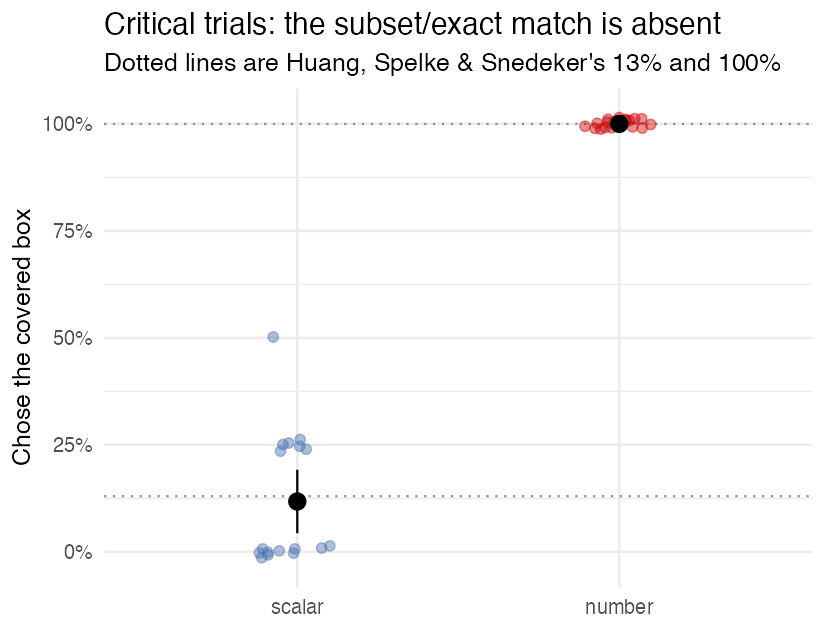
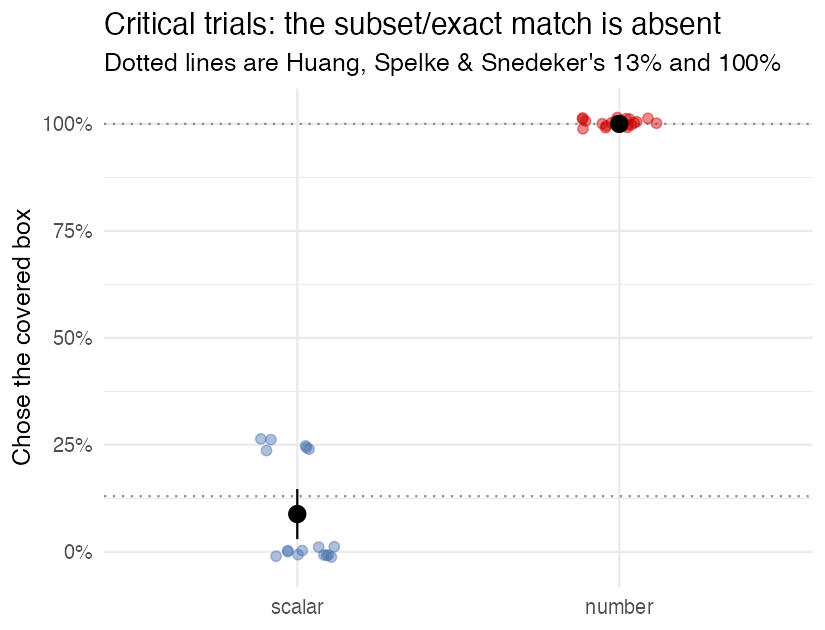
Ask about language background, optionally, at the end
Huang et al. recruited "English-speaking undergraduates", so without this
the report cannot state its own participant characteristics and comparison
with the published rate is an assumption rather than a check. It may also
not be a nuisance variable: there is a literature on second-language
speakers computing scalar implicatures differently, so in a class where a
quarter of the sample is non-native this could be the most interesting
thing in the data.

Asked last, so it cannot colour any response. Optional, with "Prefer not to
say" as a real option: this is classroom data from identifiable people, and
in a group of thirty that the instructor knows, a rare answer plus a
response pattern can identify someone. The analysis reports in aggregate
and prints cell sizes so nobody reads a rate off n = 2.

The wording avoids "native speaker", which is a contested construct and
worth fifteen minutes of the ethics session on its own. LANGUAGE_Q in
design.py is where to change it.

The question is a plain text multiple choice, SAVR with no LabelPosition,
matching Emotion_words.qsf -- the other QSF here known to import.

Claude-Session: https://claude.ai/code/session_01W6W1Yt4uZhCBdA8GGktaX5

diff --git a/build-qsf.py b/build-qsf.py
@@ -78,6 +78,26 @@ def mc(tag, prompt, boxes, preamble=""):
     qsf["SurveyElements"].append(el)
     return q
 
+def text_mc(tag, prompt, options):
+    """A plain text multiple choice. Same payload as the graphic questions but
+    vertical and without LabelPosition, which matches the other QSF here known
+    to import (Emotion_words.qsf, SAVR with text choices)."""
+    qid[0]+=1; q=f"QID{qid[0]}"
+    el = copy.deepcopy(mc_tpl)
+    el["PrimaryAttribute"]=q; el["SecondaryAttribute"]=prompt[:95]
+    p = el["Payload"]
+    p["QuestionText"] = f'<span style="font-size:18px;">{prompt}</span>'
+    p["DataExportTag"]=tag; p["QuestionID"]=q
+    p["QuestionDescription"]=prompt[:95]
+    p["Selector"]="SAVR"
+    p["Configuration"]={"QuestionDescriptionOption":"UseText"}
+    p["Choices"]={str(i+1): {"Display": o} for i,o in enumerate(options)}
+    p["ChoiceOrder"]=[str(i+1) for i in range(len(options))]
+    p["Validation"]["Settings"]["ForceResponse"]="OFF"
+    p["NextChoiceId"]=len(options)+1
+    qsf["SurveyElements"].append(el)
+    return q
+
 def block(seed, desc, qids, typ="Standard"):
     be=[]
     for i,q in enumerate(qids):
@@ -117,7 +137,15 @@ else:
       {"Type":"BlockRandomizer","FlowID":"FL_3","SubSet":1,"EvenPresentation":True,
        "Flow":[{"ID":term_ids[0],"Type":"Block","FlowID":"FL_4"},
                {"ID":term_ids[1],"Type":"Block","FlowID":"FL_5"}]}]
-    count=6
+    count=8
+
+if not TEST:
+    lang_q = text_mc("first_language", design.LANGUAGE_Q[0], design.LANGUAGE_Q[1])
+    lang_b = block("lang", "Language background", [lang_q])
+    blocks.append(lang_b)
+    flow_inner.append({"ID": lang_b["ID"], "Type": "Block", "FlowID": "FL_7"})
+    for i, o in enumerate(design.LANGUAGE_Q[1], start=1):
+        rows.append(("first_language", str(i), o))
 
 blocks.append({"Type":"Trash","Description":"Trash / Unused Questions",
                "ID":bid("trash")})

diff --git a/design.py b/design.py
@@ -122,6 +122,28 @@ SEQUENCE = ["anchor", "probeEarly",
             "critical", "shape", "critical",
             "matchVsMore", "matchVsLess", "otherQuant", "otherQuant", "probe"]
 
+# ---- language background ---------------------------------------------------
+# Asked LAST, so it cannot colour any response, and OPTIONAL.
+#
+# Huang et al. recruited "English-speaking undergraduates", so without this the
+# report cannot state its own participant characteristics and comparability with
+# the published rate is an assumption rather than a check. It may also not be a
+# nuisance variable: there is a literature on second-language speakers computing
+# scalar implicatures differently, so in a class where a quarter of the sample is
+# non-native this could be the most interesting thing in the data.
+#
+# Optional and coarse on purpose. This is classroom data from identifiable
+# people, and in a group of thirty that the instructor knows, a rare answer plus
+# a response pattern can identify someone. "Prefer not to say" is a real option,
+# not politeness. Reporting should be in aggregate.
+#
+# The wording avoids "native speaker", which is a contested construct and worth
+# fifteen minutes of the ethics session on its own -- what exactly would we be
+# measuring, and would a better question be about age of acquisition, or about
+# which languages were spoken at home?
+LANGUAGE_Q = ("Is English your first language? <em>(optional)</em>",
+              ["Yes", "No", "Prefer not to say"])
+
 # ---- shape fillers ---------------------------------------------------------
 SHAPE_PANELS = {"fill_a1":["tri","hex"],  "fill_a2":["sq","star"],
                 "fill_b1":["star","sq"],  "fill_b2":["tri","star"],

diff --git a/README.md b/README.md
@@ -93,8 +93,8 @@ entirely — otherwise it is 22 questions × 3 choices of manual insertion.
   infer the design by comparing trial types; at class scale that would mean six
   cells of five. Critical-first preserves naïvety where it matters, at the cost
   of a fixed order. Say so in the report.
-- **Eighteen screens per participant**: four familiarization, then fourteen test
-  trials. This is Huang et al.'s design plus additions, never a subset of it.
+- **Nineteen screens per participant**: four familiarization, fourteen test
+  trials, one optional question at the end. This is Huang et al.'s design plus additions, never a subset of it.
   The order is written out in `design.py` as `SEQUENCE`, because by now what
   comes before what does as much work as how many of each there are:
 
@@ -112,6 +112,7 @@ entirely — otherwise it is 22 questions × 3 choices of manual insertion.
   | 10–11 | `matchVsMore`, `matchVsLess` | Huang et al.'s |
   | 12–13 | fillers | *none*, *all* |
   | 14 | `probe` | **covered**, under maximum extinction pressure |
+  | 15 | `first_language` | optional, text — see below |
 
   **Ours comes before theirs.** The first *some* judgment anyone makes is then
   one the global reading cannot reach, which settles the domain further before
